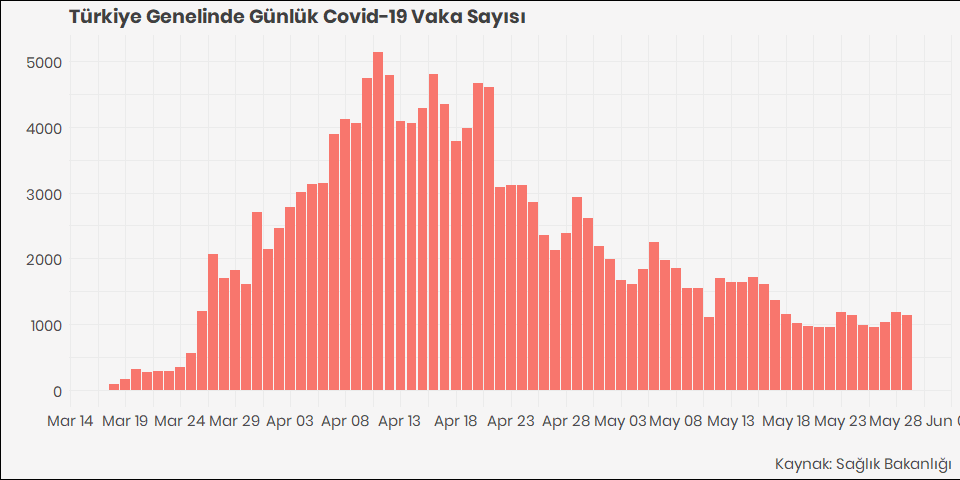
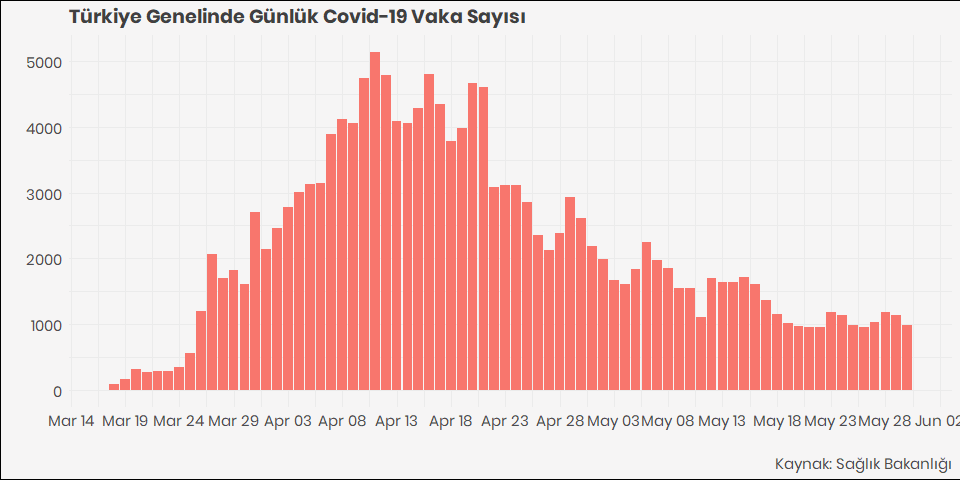
updating_data_05_30

Changed region(s): [[0.1562, 0.0938, 0.9688, 0.8125], [0.1562, 0.8438, 1.0, 0.9062], [0.0312, 0.8438, 0.0938, 0.9062]]

diff --git a/codes/kodlar.html b/codes/kodlar.html
@@ -382,7 +382,7 @@ summary {
 
 <h1 class="title toc-ignore">COVID-19 Türkiye Verileri | COVID - 19 TURKEY DATA</h1>
 <h4 class="author">Sadettin Demirel</h4>
-<h4 class="date">30 May, 2020</h4>
+<h4 class="date">31 May, 2020</h4>
 
 </div>
 
@@ -458,35 +458,6 @@ gunluk_vaka
 </tr>
 </thead>
 <tbody>
-<tr>
-<td style="text-align:left;">
-15.05.2020
-</td>
-<td style="text-align:right;">
-1547389
-</td>
-<td style="text-align:right;">
-146457
-</td>
-<td style="text-align:right;">
-4055
-</td>
-<td style="text-align:right;">
-944
-</td>
-<td style="text-align:right;">
-490
-</td>
-<td style="text-align:right;">
-106133
-</td>
-<td style="text-align:right;">
-48
-</td>
-<td style="text-align:right;">
-1708
-</td>
-</tr>
 <tr>
 <td style="text-align:left;">
 16.05.2020
@@ -891,6 +862,35 @@ gunluk_vaka
 </td>
 <td style="text-align:right;">
 1141
+</td>
+</tr>
+<tr>
+<td style="text-align:left;">
+30.05.2020
+</td>
+<td style="text-align:right;">
+2003594
+</td>
+<td style="text-align:right;">
+163103
+</td>
+<td style="text-align:right;">
+4515
+</td>
+<td style="text-align:right;">
+649
+</td>
+<td style="text-align:right;">
+308
+</td>
+<td style="text-align:right;">
+126984
+</td>
+<td style="text-align:right;">
+26
+</td>
+<td style="text-align:right;">
+983
 </td>
 </tr>
 </tbody>

diff --git a/README.md b/README.md
@@ -100,64 +100,6 @@ gunluk\_vaka
 
 <td style="text-align:left;">
 
-10.05.2020
-
-</td>
-
-<td style="text-align:right;">
-
-1370598
-
-</td>
-
-<td style="text-align:right;">
-
-138657
-
-</td>
-
-<td style="text-align:right;">
-
-3786
-
-</td>
-
-<td style="text-align:right;">
-
-1154
-
-</td>
-
-<td style="text-align:right;">
-
-598
-
-</td>
-
-<td style="text-align:right;">
-
-92691
-
-</td>
-
-<td style="text-align:right;">
-
-47
-
-</td>
-
-<td style="text-align:right;">
-
-1542
-
-</td>
-
-</tr>
-
-<tr>
-
-<td style="text-align:left;">
-
 11.05.2020
 
 </td>
@@ -1251,6 +1193,64 @@ gunluk\_vaka
 <td style="text-align:right;">
 
 1141
+
+</td>
+
+</tr>
+
+<tr>
+
+<td style="text-align:left;">
+
+30.05.2020
+
+</td>
+
+<td style="text-align:right;">
+
+2003594
+
+</td>
+
+<td style="text-align:right;">
+
+163103
+
+</td>
+
+<td style="text-align:right;">
+
+4515
+
+</td>
+
+<td style="text-align:right;">
+
+649
+
+</td>
+
+<td style="text-align:right;">
+
+308
+
+</td>
+
+<td style="text-align:right;">
+
+126984
+
+</td>
+
+<td style="text-align:right;">
+
+26
+
+</td>
+
+<td style="text-align:right;">
+
+983
 
 </td>
 
